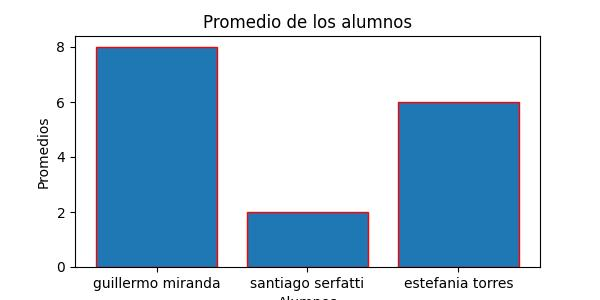
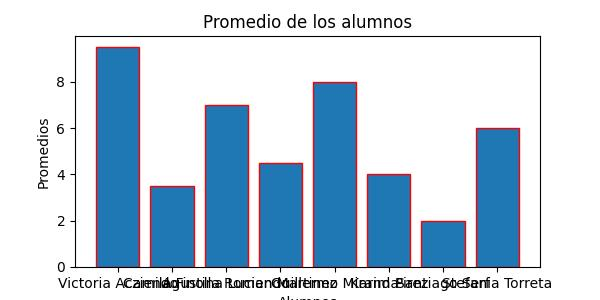
Se agrego el ejemplo del caso de prueba.

diff --git a/Profesor_examenes.py b/Profesor_examenes.py
@@ -49,15 +49,15 @@ alumnoparcial = ""
 print("Hola, bienvenido Profesor. Porfavor Siga las indicaciones.\n Las notas se comprenden de 1 a 10 o 0 para indicar que se ausentó.\n Ingrese apellido del alumno o 0 para finalizar:")
 alumnoparcial = input("Apellido: ")
 while(alumnoparcial!="0"):
-    alumnos_apellidos.append(alumnoparcial)
-    alumnos_nombres.append(input("Ingrese Nombre: "))
+    alumnos_apellidos.append(alumnoparcial.capitalize())
+    alumnos_nombres.append((input("Ingrese Nombre: ")).capitalize()) #Pide el nombre y ademas y coloca mayuscula
     nota = Validacion_notas(1)
     nota1.append(nota)
     nota = Validacion_notas(2)
     nota2.append(nota)
     print("Alumno registrado, ingrese otro.")
     alumnoparcial = input("Apellido: ")
-
+#En este momento se obtiene la condicion del alumno
 for i in range(len(alumnos_apellidos)):
     promedio = (nota1[i] + nota2[i]) / 2
     if (i == 0 or mejor_promedio < promedio):
@@ -74,7 +74,7 @@ with open("Alumnos.csv","w") as file:
     writer = csv.writer(file)
     writer.writerow(["Apellido","Nombre","Nota 1","Nota 2","Promedio","Condicion"])
     writer.writerows(alumnos)
-    print("Los datos se guardaron el csv correctamente.")
+    print("Los datos se guardaron en el csv correctamente.")
 datos_graficos_x = []
 datos_graficos_y = []
 muestra = []
@@ -86,7 +86,7 @@ for i in range(len(alumnos)):
 
 print(f"El Alumno con mejor promedio fue {alumno_con_mejor_promedio}, y su promedio fue {mejor_promedio}")
 
-
+#Esta parte crea el grafico de barras
 plt.figure(figsize=(6,3))
 plt.bar(datos_graficos_x, datos_graficos_y, edgecolor='red')
 plt.title("Promedio de los alumnos")
